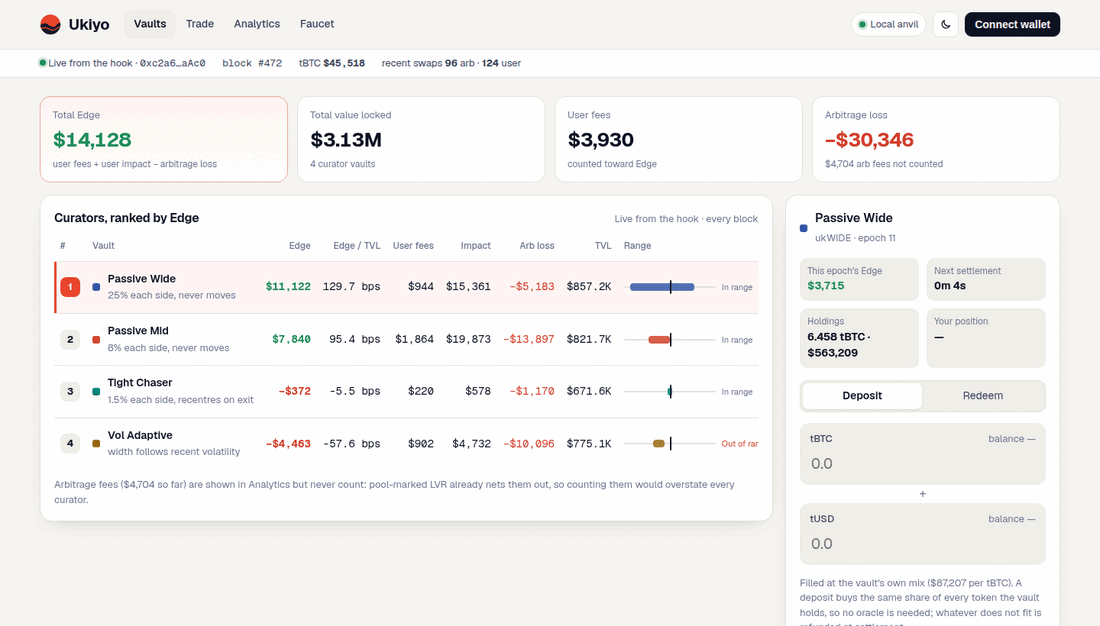
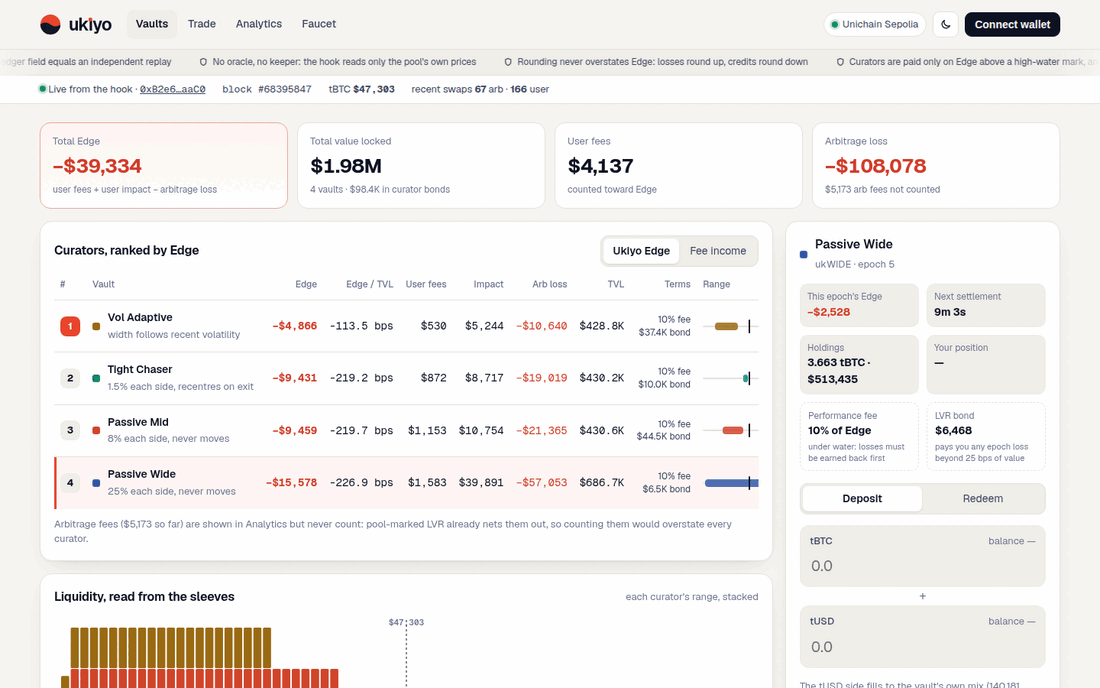
Link previews (Open Graph image), README hero and app screenshots of the new design

diff --git a/web/src/app/layout.tsx b/web/src/app/layout.tsx
@@ -5,7 +5,18 @@ import "./globals.css";
 const sans = Geist({ subsets: ["latin"], variable: "--font-sans" });
 const mono = Geist_Mono({ subsets: ["latin"], variable: "--font-mono" });
 
+// Where the site is published (GitHub Pages once the repository is public); link previews need absolute URLs.
+const SITE = process.env.NEXT_PUBLIC_SITE_URL || "https://abhist17.github.io/ukiyo/";
+
 export const metadata: Metadata = {
+  metadataBase: new URL(SITE),
+  openGraph: {
+    title: "Ukiyo · Rank liquidity curators by skill, not by luck",
+    description: "A Uniswap v4 hook that scores every curator's Edge on-chain: user fees + user price impact − arbitrage loss.",
+    images: [{ url: "og.png", width: 1200, height: 630 }],
+    type: "website",
+  },
+  twitter: { card: "summary_large_image", images: ["og.png"] },
   title: "Ukiyo · Curator Edge on Uniswap v4",
   description:
     "An honest scoreboard for curated liquidity on Uniswap v4: Edge = user fees + user price impact − arbitrage loss.",

diff --git a/README.md b/README.md
@@ -1,8 +1,10 @@
-<p align="center"><img src="assets/logo.svg" width="96" alt="Ukiyo logo: a vermilion sun over a navy sea, drawn as a coin"></p>
+<p align="center"><img src="assets/logo.svg" width="96" alt="Ukiyo logo: a wave splitting a coin into a vermilion sun and a navy sea"></p>
 
 <h1 align="center">Ukiyo 浮世</h1>
 
 <p align="center"><b>An honest scoreboard for curated liquidity on Uniswap v4.</b></p>
+
+![Ukiyo: rank liquidity curators by skill, not by luck](assets/hero.png)
 
 Ukiyo is a Uniswap v4 hook that measures, block by block and with no oracle, how much skill each liquidity curator
 actually has. Every curator runs a hook-owned position ("sleeve") in a hook-exclusive pool, and the hook keeps a
